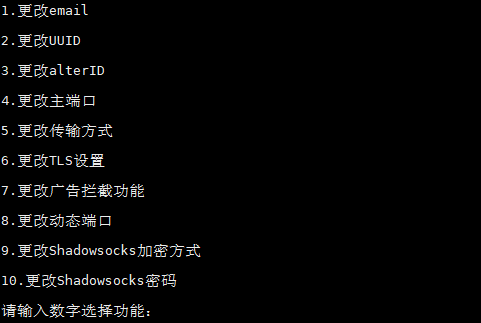
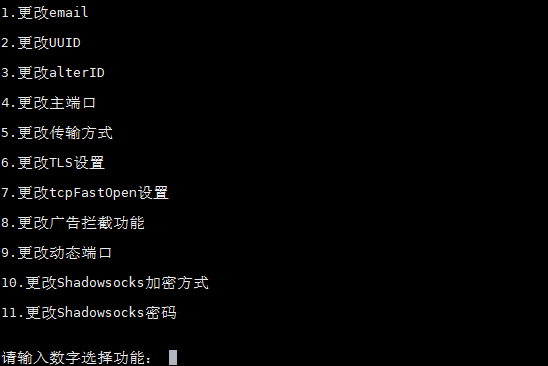
add tcpFastOpen

diff --git a/config_modify/tfo.py b/config_modify/tfo.py
@@ -25,7 +25,9 @@ if length == 1 or (len(choice)==1 and re.match(r'[A-Z]', choice) and choice <= m
                 exit()
             break
 
-    print("当前选择组节点tfo状态：{}\n".format("开启" if sin_user_conf["tcpFastOpen"] else "关闭"))
+    tfo_status = sin_user_conf["tcpFastOpen"] if sin_user_conf["tcpFastOpen"] else "未设置"
+    
+    print("当前选择组tcpFastOpen状态：{}".format(tfo_status))
     print("")
     print("1.开启TFO(强制开启)")
     print("2.关闭TFO(强制关闭)")
